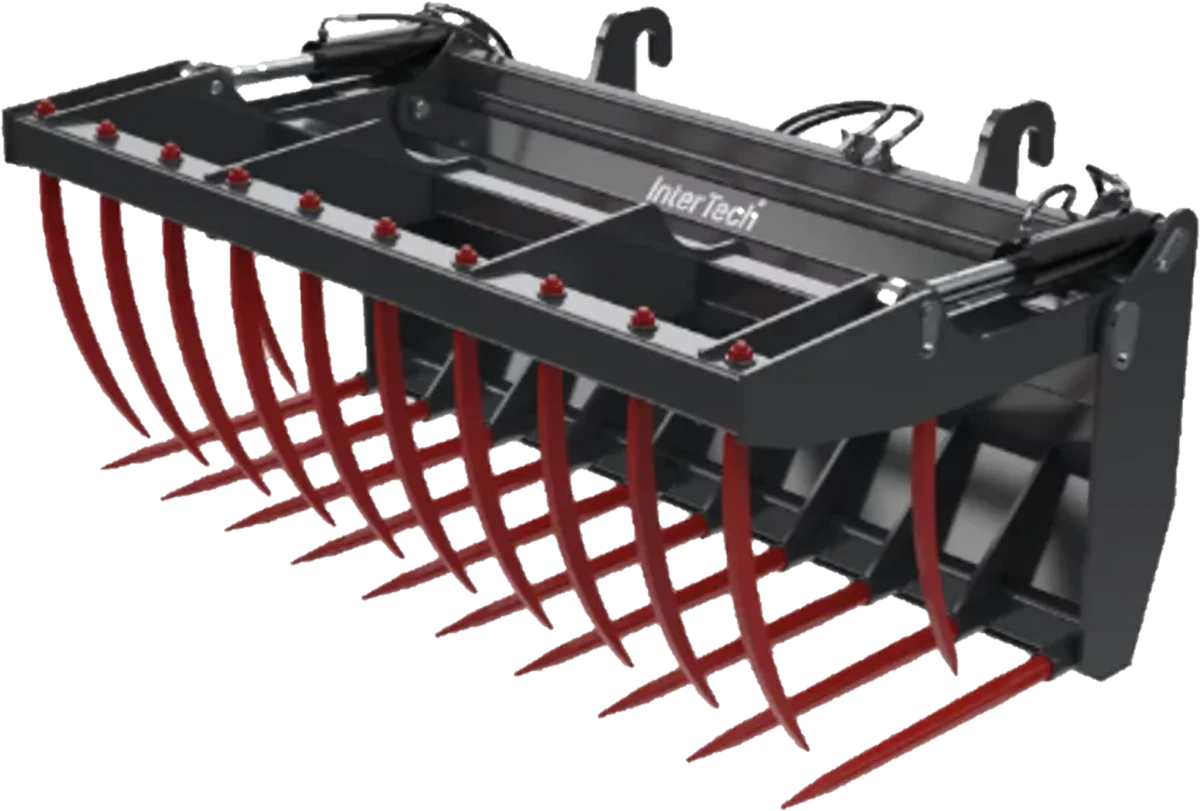
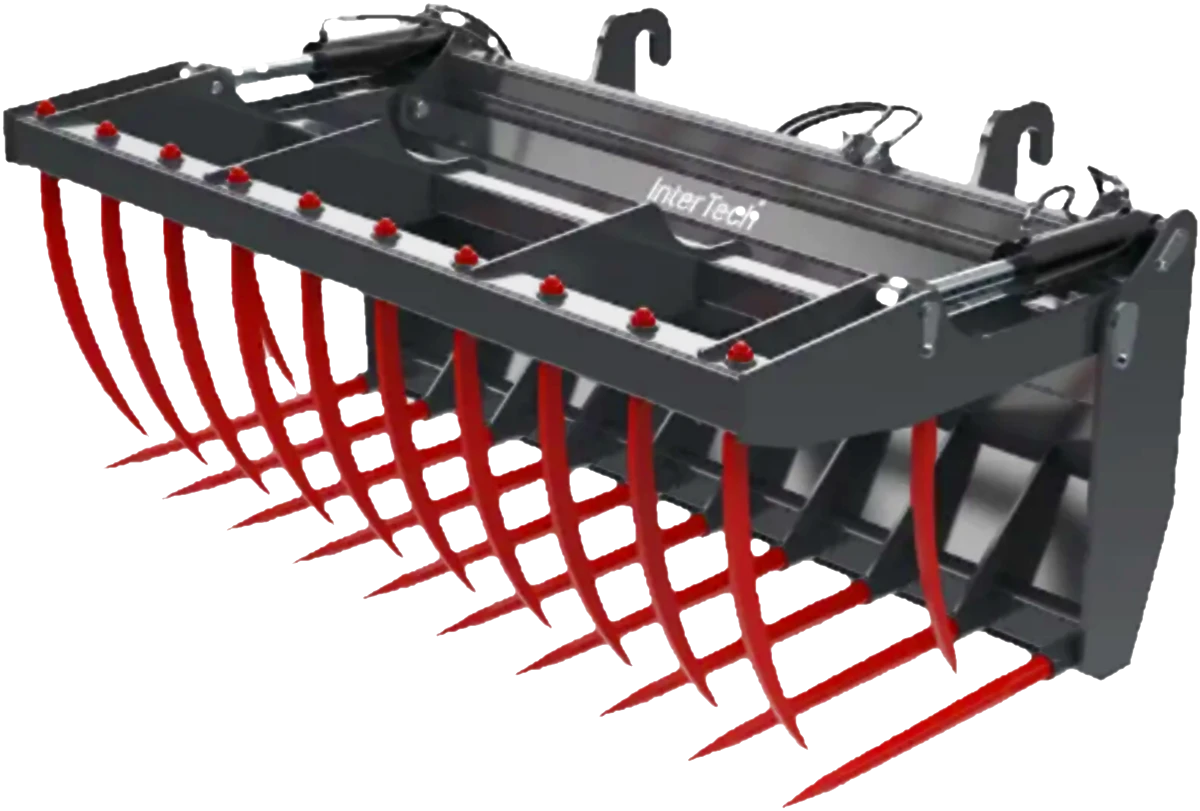
Úvodní fotka drapáku: čistší výřez bez světlých lemů, živější barvy

diff --git a/index.html b/index.html
@@ -103,7 +103,7 @@
     </div>
 
     <div class="hero__visual" data-reveal style="--d:120ms">
-      <img class="hero__product" src="assets/img/hero-drapak.webp?v=3" alt="Drapákové vidle HD pro manipulátory" width="1200" height="814" fetchpriority="high">
+      <img class="hero__product" src="assets/img/hero-drapak.webp?v=4" alt="Drapákové vidle HD pro manipulátory" width="1200" height="814" fetchpriority="high">
       <div class="hero__badge">
         <b data-count-products>75</b><span>adaptérů v nabídce</span>
       </div>
